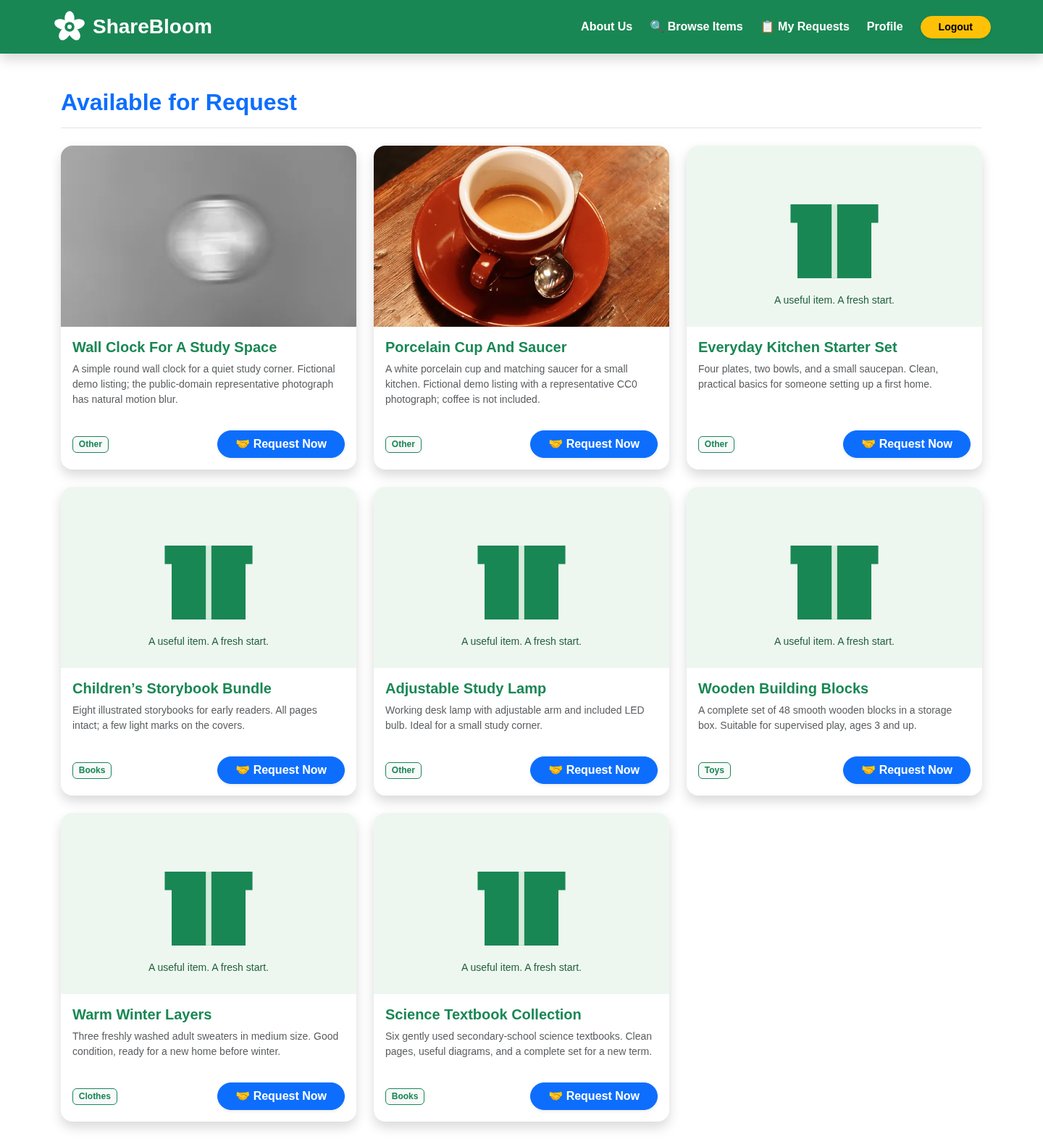
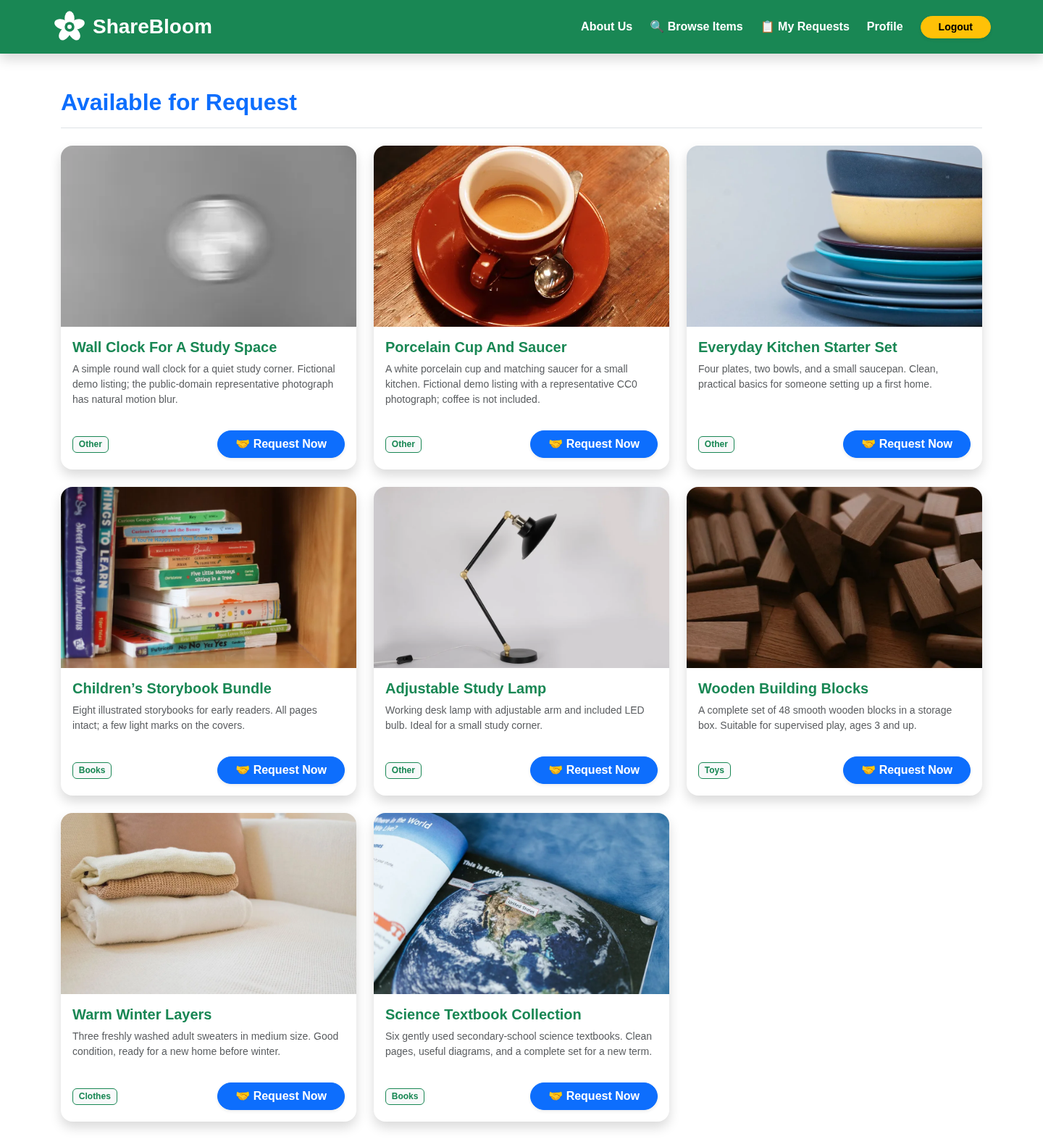
Complete licensed demo photography and document portfolio deployment plan

Changed region(s): [[0.0312, 0.4052, 0.9688, 0.5922], [0.0312, 0.6858, 0.6562, 0.8728], [0.6562, 0.1247, 0.9688, 0.3117]]

diff --git a/backend/test/demo-photos.test.js b/backend/test/demo-photos.test.js
@@ -1,0 +1,37 @@
+const { test } = require('node:test');
+const assert = require('node:assert/strict');
+const mongoose = require('mongoose');
+const fs = require('node:fs/promises');
+const os = require('node:os');
+const path = require('node:path');
+const crypto = require('node:crypto');
+const { attachDemoPhotos } = require('../lib/demo-photos');
+const manifest = require('../fixtures/photos/manifest.json');
+test('photo attachment preserves existing images, records and requests and is idempotent', async () => {
+  const connection = await mongoose.createConnection('mongodb://127.0.0.1:27017/photo_test_' + crypto.randomUUID().replaceAll('-', '')).asPromise();
+  const dir = await fs.mkdtemp(path.join(os.tmpdir(), 'photo-test-'));
+  try {
+    const Donation = connection.model('Donation', new mongoose.Schema({ itemName: String, category: String, donorEmail: String, image: String, description: String }));
+    const rows = await Donation.insertMany(manifest.photos.map((p, i) => ({ itemName: p.itemName, category: p.category, donorEmail: 'mira.donor@example.test', image: i === 0 ? 'genuine.webp' : null, description: 'Preserve this text' })));
+    await fs.writeFile(path.join(dir, 'genuine.webp'), 'existing uploaded bytes');
+    await connection.collection('requests').insertOne({ donationId: rows[0]._id, status: 'Approved' });
+    const before = JSON.parse(JSON.stringify(await Donation.find().sort({ _id: 1 }).lean()));
+    const requests = JSON.parse(JSON.stringify(await connection.collection('requests').find().toArray()));
+    assert.equal((await attachDemoPhotos(Donation, dir)).attached, 5);
+    assert.equal((await attachDemoPhotos(Donation, dir)).attached, 0);
+    assert.equal(await fs.readFile(path.join(dir, 'genuine.webp'), 'utf8'), 'existing uploaded bytes');
+    const after = JSON.parse(JSON.stringify(await Donation.find().sort({ _id: 1 }).lean()));
+    assert.equal(after[0].image, 'genuine.webp');
+    for (let i = 0; i < before.length; i++) { delete before[i].image; delete after[i].image; }
+    assert.deepEqual(after, before);
+    assert.deepEqual(JSON.parse(JSON.stringify(await connection.collection('requests').find().toArray())), requests);
+    await Donation.create({ ...manifest.photos[0], donorEmail: 'mira.donor@example.test' });
+    const filesBefore = await fs.readdir(dir);
+    await assert.rejects(attachDemoPhotos(Donation, dir), /ambiguous/);
+    assert.deepEqual(await fs.readdir(dir), filesBefore);
+  } finally {
+    await connection.dropDatabase();
+    await connection.close();
+    await fs.rm(dir, { recursive: true, force: true });
+  }
+});

diff --git a/backend/lib/demo-photos.js b/backend/lib/demo-photos.js
@@ -1,0 +1,34 @@
+const fs = require('fs/promises');
+const path = require('path');
+const crypto = require('crypto');
+const manifest = require('../fixtures/photos/manifest.json');
+const hash = buffer => crypto.createHash('sha256').update(buffer).digest('hex');
+async function attachDemoPhotos(Donation, uploadDir) {
+  const planned = [];
+  // Preflight every target and asset before the first write. Never create or replace a donation.
+  for (const photo of manifest.photos) {
+    const matches = await Donation.find({ donorEmail: 'mira.donor@example.test', itemName: photo.itemName }).lean();
+    if (matches.length !== 1 || matches[0].category !== photo.category) throw new Error('Missing or ambiguous fictional fixture: ' + photo.itemName);
+    if (path.basename(photo.file) !== photo.file) throw new Error('Invalid fixture filename');
+    const bytes = await fs.readFile(path.join(__dirname, '../fixtures/photos', photo.file));
+    if (hash(bytes) !== photo.sha256) throw new Error('Fixture checksum mismatch');
+    planned.push({ photo, donation: matches[0], bytes });
+  }
+  await fs.mkdir(uploadDir, { recursive: true });
+  const result = { attached: 0, preserved: 0, ids: [] };
+  for (const { photo, donation, bytes } of planned) {
+    result.ids.push(String(donation._id));
+    if (donation.image) { result.preserved++; continue; }
+    const name = `demo-pexels-${photo.photoId}-${photo.sha256.slice(0, 12)}.webp`;
+    const target = path.join(uploadDir, name);
+    try { await fs.writeFile(target, bytes, { flag: 'wx' }); }
+    catch (error) {
+      if (error.code !== 'EEXIST' || hash(await fs.readFile(target)) !== photo.sha256) throw error;
+    }
+    const updated = await Donation.updateOne({ _id: donation._id, donorEmail: donation.donorEmail, image: { $in: [null, ''] } }, { $set: { image: name } });
+    if (updated.modifiedCount === 1) result.attached++;
+    else result.preserved++; // A concurrent genuine upload always wins.
+  }
+  return result;
+}
+module.exports = { attachDemoPhotos };

diff --git a/backend/scripts/attach-demo-photos.js b/backend/scripts/attach-demo-photos.js
@@ -1,0 +1,13 @@
+require('dotenv').config({ quiet: true });
+const mongoose = require('mongoose');
+const path = require('path');
+const Donation = require('../models/Donation');
+const { attachDemoPhotos } = require('../lib/demo-photos');
+async function main() {
+  const uri = process.env.MONGO_URI || 'mongodb://127.0.0.1:27017/community_donation';
+  if (!uri.startsWith('mongodb://127.0.0.1:') && process.env.ALLOW_DEMO_SEED !== 'true') throw new Error('Non-local fixture updates require explicit approval and ALLOW_DEMO_SEED=true');
+  await mongoose.connect(uri);
+  const result = await attachDemoPhotos(Donation, path.resolve(process.env.UPLOAD_DIR || path.join(__dirname, '../uploads')));
+  console.log(JSON.stringify(result));
+}
+if (require.main === module) main().catch(error => { console.error(error.message); process.exitCode = 1; }).finally(() => mongoose.disconnect());

diff --git a/docs/DEPLOYMENT-PLAN.md b/docs/DEPLOYMENT-PLAN.md
@@ -1,0 +1,101 @@
+# Portfolio deployment plan — approval required
+
+Prepared 21 October 2026. This is an executable launch checklist, **not a record of deployment**. No resources, billing, public listeners, domains or external backup accounts were created. Existing application functionality and UI are unchanged.
+
+## Recommended arrangement
+
+Use one **Hetzner Cloud shared x86 VPS in an EU region**, with at least 2 vCPU, 4 GB RAM and 40 GB persistent SSD. Confirm x86 AVX support for MongoDB 8 before purchase. Choose the current equivalent plan rather than relying on an old SKU. Run the existing Docker Compose stack: React/Nginx, one Express process, private authenticated MongoDB and persistent upload/database volumes. Put Caddy in front for automatic Let's Encrypt HTTPS. Use one domain and one origin for UI, API and uploads; this avoids extra CORS/cookie configuration and separate hosting bills.
+
+This is suitable for a low-traffic portfolio demo, with one host as a failure domain. It is not high availability. Avoid free ephemeral hosting for local uploads and MongoDB. Do not split this small application across frontend hosting, an API service and a database service unless traffic or operational requirements justify the extra configuration.
+
+### Budget, not a verified provider quotation
+
+Official pricing pages returned network-policy denials in this workspace. The figures below are planning allowances, **not confirmed current prices**. Confirm region, disk, IPv4, tax and backup charges in the provider checkout before requesting purchase approval.
+
+| Component | Expected monthly allowance, excluding tax |
+| --- | --- |
+| Shared x86 4 GB VPS | €5–8 |
+| Public IPv4 | €0.50–1 |
+| Provider automatic backups | About 20% of VM price: €1–1.60 |
+| Encrypted off-site object storage, small demo (roughly 5–20 GB retained) | €0–1 initially; budget €1 |
+| Domain amortized over annual registration | €1–2 (roughly €12–24/year) |
+| Caddy, Docker, HTTPS certificate, DNS | €0 software/certificate cost |
+| **Expected total** | **Approximately €8–14/month; reserve €10–15 plus tax** |
+
+Storage growth, restore egress, region changes and non-EUR billing can increase costs. Set the provider's available billing alerts, a storage alert and an upload-retention policy; alerts are not necessarily a spending cap. No payment method or billing was enabled.
+
+Verify: [Hetzner Cloud](https://www.hetzner.com/cloud/), [backup documentation](https://docs.hetzner.com/cloud/servers/backups-snapshots/overview/), [Backblaze B2 pricing](https://www.backblaze.com/cloud-storage/pricing). B2 is the proposed independent backup destination; another S3-compatible provider is acceptable after confirming storage, request and egress charges.
+
+## Decisions needed before any purchase or public launch
+
+The owner must approve provider, region/data location, exact checkout cost, domain, monthly budget, and whether public signup/uploads are allowed. Recommended first release: limited portfolio sandbox with fictional data, explicit “demo—no real donations or personal information” notice and a documented reset policy. Current public signup/upload endpoints remain enabled in code; restricting them requires a separately reviewed gateway/application configuration before launch. Do not advertise a restricted sandbox until restrictions are tested. Email verification and account recovery are not implemented.
+
+## Exact launch sequence
+
+These commands are a plan to run **after approval**. Substitute the approved domain, release SHA and paths. Commands that require configuration work are expressly called out below; the current Compose template alone is not a public-ready gateway.
+
+1. **Pin release and recheck dependencies.** In this checkout run:
+
+   ```bash
+   git switch main
+   git pull --ff-only origin main
+   git rev-parse HEAD
+   npm ci --prefix backend
+   npm ci --prefix frontend
+   npm test --prefix backend
+   npm test --prefix frontend
+   npm run build --prefix frontend
+   npm audit --prefix backend
+   npm audit --prefix frontend
+   ```
+
+   Backend integration tests require the isolated local MongoDB described in TESTING.md. Record the exact approved SHA; deploy that SHA, not a moving branch. Keep only `main` in the source repository.
+
+2. **Provision the approved VM.** Ubuntu 24.04 LTS x86, SSH key access, provider account MFA, recovery codes stored offline, automatic provider backups enabled only after cost approval. Create a non-root sudo operator; disable password/root SSH login after verifying a second key-based session. Install security updates and unattended security patches; arrange reboot maintenance. Verify CPU AVX support and disk capacity before installing MongoDB containers.
+
+3. **Network perimeter.** At the provider firewall allow TCP 22 only from the operator's approved IP/CIDR and TCP 80/443 publicly; allow necessary outbound DNS/HTTPS/NTP. Do not expose 27017, 5000 or 8080. Use the provider firewall as well as host controls because published Docker ports can bypass ordinary UFW rules. Add DNS A to the VM; add AAAA only if IPv6 routing/firewall is tested. Wait for authoritative/public DNS convergence.
+
+4. **Install Docker Engine and Compose v2 from Docker's official signed apt repository** following [Ubuntu installation instructions](https://docs.docker.com/engine/install/ubuntu/). Keep TLS and package signature verification enabled. Docker access is root-equivalent. Clone the repository into `/opt/sharebloom`, checkout the approved SHA, and keep runtime secrets outside the checkout. No third-party installation shell script is required.
+
+5. **Create private configuration.** As root, `install -d -m 700 /etc/sharebloom`; copy `deploy/demo.env.example` to `/etc/sharebloom/app.env`, mode 600. Generate independent random hexadecimal Mongo root/application passwords (`openssl rand -hex 32`) and JWT secret (`openssl rand -hex 48`) into the private file using a secure editor or password manager. Set `PUBLIC_ORIGIN=https://APPROVED_DOMAIN`. Do not print expanded Compose configuration, commit credentials, expose secrets through React build variables, or reuse local demo passwords. Changing Mongo env values does not rotate users in an existing volume.
+
+6. **Prepare and review a production gateway overlay before starting public services.** Keep `compose.demo.yaml` intact and write `compose.production.yaml` with Caddy, persistent Caddy `/data` and `/config` volumes, the chosen domain/ACME contact, and public ports 80/443 on Caddy only. Retain web's existing loopback-only 8080 listener, or remove it with a Compose-version-supported override. Caddy reverse-proxies to `web:80`; Nginx continues routing `/api` and `/uploads` to `api:5000`. Caddy automatically redirects HTTP to HTTPS. Pin an official Caddy image digest and validate its configuration without requesting a certificate first. Start with HSTS `max-age=2592000`; omit preload/includeSubDomains until every affected domain is HTTPS-ready.
+
+   **Required gateway/proxy implementation gate:** current Express does not trust proxies. Configure exact trusted Nginx addresses in Express and exact trusted Caddy addresses in Nginx, using a dedicated, collision-checked fixed Compose subnet. Never enable unrestricted `trust proxy=true`. Caddy must overwrite incoming forwarded-client headers; Nginx must pass only the sanitized client address. Add gateway limits for every API route, stricter auth/upload limits, 6 MiB body limit, upstream timeouts and bounded connections. Test that forged `X-Forwarded-For` cannot evade limits, while two real clients receive independent limits. Current in-memory limits are suitable only for this single API process; scaling requires shared storage. This production overlay and trusted-proxy implementation are **not yet committed or tested**; do not open public access until complete.
+
+   Apply container log rotation (for example 10 MiB × 3), `no-new-privileges` where compatible, and memory ceilings. Suggested Mongo wiredTiger cache 0.5 GB and container ceiling 2 GB, API 512 MB, Nginx 128 MB, Caddy 256 MB; leave host/build headroom. Test these limits under expected load. Leave database and uploads on named persistent volumes. Never run `down --volumes` on the live project.
+
+7. **Build and inspect privately.** Once the production overlay is implemented:
+
+   ```bash
+   cd /opt/sharebloom
+   docker compose --project-name sharebloom --env-file /etc/sharebloom/app.env \
+     -f compose.demo.yaml -f compose.production.yaml config --quiet
+   docker compose --project-name sharebloom --env-file /etc/sharebloom/app.env \
+     -f compose.demo.yaml -f compose.production.yaml build
+   ```
+
+   Run a loopback rehearsal first, including authenticated Mongo connectivity, HTTPS cookies/CSRF and persistence. Never disable certificate verification. Provision the first Admin with the existing private admin script (see TESTING.md), independent credentials, no public self-registration role escalation. Seed only approved fictional data; copy licensed fixtures via the idempotent photo attachment script. Do not copy the entire development database or genuine uploads without a separate data review.
+
+8. **Backups and mandatory restore drill.** Create an independent B2 bucket with encryption and a bucket/prefix-scoped application key; store the Restic repository password in an offline password manager and a root-readable host file. Use Restic authenticated encryption; provider disk encryption alone does not protect exported database dumps. Schedule daily backups at 03:00 UTC, retention 7 daily/4 weekly/3 monthly, weekly repository integrity checks and backup-age/error notifications. Set a non-overlap lock and `umask 077`.
+
+   The backup job must briefly stop only the API to prevent writes across Mongo/upload capture, with a trap that restarts it on every exit; make a gzip `mongodump` of `community_donation`, archive the upload volume read-only, record checksums/release SHA and encrypt configuration needed for recovery. Pass Mongo credentials through a temporary mode-600 `mongodump --config` file inside the container, not password command arguments or logs. Resume the API immediately after capture, then transfer the consistent snapshot to Restic. Delete plaintext staging securely according to the host storage policy. Backup Caddy state or document ACME reissue. Do not put unencrypted archives in the repository or web root.
+
+   **Restore gate:** restore to a new, isolated Compose project with fresh volumes and loopback-only ports; never use `mongorestore --drop` against live data. Restore DB and upload archive together, compare counts/checksums and image retrieval, verify authentication/authorization and three request states, and record elapsed recovery time. Provider snapshots supplement, rather than replace, the independent encrypted backup. Target RPO 24 hours and RTO 2–4 hours are goals until measured. Backup automation and this drill remain to be implemented/tested; no remote backup account has been created.
+
+9. **Approved public start.** Only after steps 1–8 and explicit public-launch approval:
+
+   ```bash
+   docker compose --project-name sharebloom --env-file /etc/sharebloom/app.env \
+     -f compose.demo.yaml -f compose.production.yaml up -d --wait
+   docker compose --project-name sharebloom --env-file /etc/sharebloom/app.env \
+     -f compose.demo.yaml -f compose.production.yaml ps
+   ```
+
+   Caddy obtains its certificate after DNS/ports are ready. Validate HTTP redirect, certificate chain/renewal configuration, `/api/health`, exact CORS origin, Secure/HttpOnly/SameSite cookies, CSRF rejection, unauthorized/other-owner denial, rate limits, upload type/size rejection, CSP and persistence after restart. Run the real browser suite against the approved HTTPS hostname using private test accounts; inspect desktop/mobile and all screenshots. Verify externally that database/API ports are closed. Do not log tokens or request bodies containing credentials. Remove test artefacts, keep fictional portfolio data, then announce the URL.
+
+10. **Operations and rollback.** Monitor HTTPS uptime, `/api/health`, disk (>80%), memory, certificate expiry, container restarts and backup age (>26 hours). Keep bounded security/audit logs with access restricted to the operator; define deletion/retention and a short privacy notice. Review uploads periodically and add quotas/malware scanning before unrestricted public submissions. Patch and re-audit monthly. Record deployed image digests and SHA; rollback to known-good application images after backup, without deleting volumes or blindly downgrading Mongo. Restore into an isolated project first if data recovery is needed. Run a restore drill monthly and after material storage changes.
+
+## Present readiness
+
+Application tests and local screenshots are separate from final-host acceptance. Existing authentication, authorization, upload decoding, same-origin CORS/CSP and Compose persistence are prepared. Public proxy configuration, gateway abuse controls, encrypted backup automation/restore, final domain/TLS, retention/privacy choices and final-host browser validation remain launch gates. No claim of public production readiness or successful backup restoration is made.

diff --git a/docs/TESTING.md b/docs/TESTING.md
@@ -8,7 +8,7 @@ npm test --prefix frontend
 npm run build --prefix frontend
 ```
 
-The backend runner uses a unique local `community_test_*` database and temporary upload directory, then removes only those resources. Its 17 tests exercise real MongoDB, authentication, expired/invalid JWTs, cookie restoration/revocation/CSRF, RBAC, ownership, suspension, admin provisioning/permissions, reversible moderation/audits, upload decoding and limits, injection rejection, throttling and production configuration. No tests are skipped.
+The backend runner uses a unique local `community_test_*` database and temporary upload directory, then removes only those resources. Its 18 tests exercise real MongoDB, authentication, expired/invalid JWTs, cookie restoration/revocation/CSRF, RBAC, ownership, suspension, admin provisioning/permissions, reversible moderation/audits, upload decoding and limits, injection rejection, throttling and production configuration. No tests are skipped.
 
 The ten frontend tests cover registration/login navigation, donor routes/forms, status changes, request histories, forged client roles, expired sessions, admin statistics/search/suspension, image previews and invalid image choices. The original test assertions now run with Vitest/jsdom. Vite/Vitest replaced the retired React Scripts/Jest dependency tree after compatible patches alone left 109 audit findings. React screens/API contracts remain unchanged; current React Router exports resolve natively. No assertions were removed or disabled.
 
@@ -19,9 +19,10 @@ Set private `MONGO_URI` and `DEMO_PASSWORD` (12–72 bytes) outside the checkout
 ```bash
 node --env-file=/absolute/private/backend.env --env-file=/absolute/private/demo.env backend/scripts/seed-demo.js
 node --env-file=/absolute/private/backend.env backend/scripts/seed-photos.js
+node --env-file=/absolute/private/backend.env backend/scripts/attach-demo-photos.js
 ```
 
-Three original fixture accounts are Mira Willow (`mira.donor@example.test`), Rowan Vale (`rowan.requester@example.test`) and Ellis Fern (`ellis.requester@example.test`). The original six listings and Pending/Approved/Rejected requests are preserved. Two additional fictional listings use correctly matched, verified CC0/public-domain photographs: a cup/saucer and a wall clock. Existing genuine uploads and populated image fields are never replaced. See [attribution](../backend/fixtures/photos/ATTRIBUTION.md) for the source-access limitation affecting the other categories.
+Three original fixture accounts are Mira Willow (`mira.donor@example.test`), Rowan Vale (`rowan.requester@example.test`) and Ellis Fern (`ellis.requester@example.test`). The original six listings and Pending/Approved/Rejected requests are preserved. Two additional fictional listings use correctly matched, verified CC0/public-domain photographs: a cup/saucer and a wall clock. Existing genuine uploads and populated image fields are never replaced. The six original items now have visually reviewed Pexels illustrations; see [attribution](../backend/fixtures/photos/ATTRIBUTION.md) for provenance and matching limitations.
 
 Both seeds require explicit `ALLOW_DEMO_SEED=true` for non-local databases; do not use that override on real data. Reruns preserve existing records/passwords. No real email or phone details are used, and nothing sends mail.
 
@@ -50,3 +51,7 @@ Sixteen genuine images and a SHA-256 capture manifest are saved under `docs/scre
 ## Production transport rehearsal
 
 See [deployment preparation](DEPLOYMENT.md) for the verified local TLS rehearsal. `scripts/production-smoke.cjs` tests the authenticated Compose configuration with a trusted local test certificate and leaves the key outside the checkout. The final public provider/domain, browser TLS configuration, abuse controls and backup recovery remain untested until approved hosting exists.
+
+## Portfolio photo verification — 21 October 2026
+
+18 backend tests passed against real MongoDB, including an isolated photo attachment test that preserves existing image bytes, IDs, donation metadata and request records; reruns are idempotent and ambiguous targets fail before writes. The live fixture before/after comparison found exactly six image-field changes and no other donation, request or prior upload-byte changes. Ten frontend tests, the production build and nine real Chromium scenarios passed. Sixteen screenshots were recaptured and their hashes refreshed. Both dependency audits reported zero known vulnerabilities. The build emitted non-failing React Router `use client` bundling warnings. No dependencies or UI flows changed in this follow-up.

diff --git a/backend/fixtures/photos/ATTRIBUTION.md b/backend/fixtures/photos/ATTRIBUTION.md
@@ -9,6 +9,21 @@ These are real photographs, not generated images. Re-encoded as metadata-free We
 
 Original files: https://github.com/scikit-image/scikit-image/blob/v0.24.0/skimage/data/coffee.png and https://github.com/scikit-image/scikit-image/blob/v0.24.0/skimage/data/clock_motion.png . CC0 terms: https://creativecommons.org/publicdomain/zero/1.0/ .
 
-The cup image is used only for a new fictional cup-and-saucer listing; the clock image only for a new fictional wall-clock listing. They are not falsely attached to books, clothing or toys. Existing genuine images are never replaced. Existing fictional listings still need suitable licensed category photographs: Pexels/Wikimedia download hosts are currently blocked by runtime policy. The network additions are saved in the environment draft. Verify each remaining source's author/licence before using it; do not assume that every file in an image-sample repository shares a licence.
+The cup image is used only for a new fictional cup-and-saucer listing; the clock image only for a new fictional wall-clock listing. They are not falsely attached to books, clothing or toys. Existing genuine images are never replaced.
 
[1 lines of base64/hex data omitted]
+
+## Six original fictional listings
+
+Downloaded and visually reviewed on 21 October 2026. All six use the [Pexels licence](https://www.pexels.com/license/), permitting free use and modification. Attribution is provided voluntarily. No endorsement is implied. These illustrate fictional listings; they do not document actual donated inventory or establish condition, size or exact quantities.
+
+| Listing | Photographer and source | Matching review |
+| --- | --- | --- |
+| Science textbook collection | [RDNE Stock project](https://www.pexels.com/photo/open-book-with-a-photo-of-earth-8363782/) | An open educational book with a labelled Earth illustration. Represents the science content of the fictional collection, not a photograph of all six books or proof of grade/condition. |
+| Warm winter layers | [Ralitsa Racheva](https://www.pexels.com/photo/clothes-on-couch-7691347/) | Three folded knitted sweaters in neutral colours on a sofa. The type and visible count match; size, washing and condition remain fictional listing details. |
+| Wooden building blocks | [Julia Bataeva](https://www.pexels.com/photo/scattered-wooden-building-blocks-on-floor-31061855/) | Natural wooden geometric building blocks on a wooden floor. Represents the block set; the storage box and exact 48-piece inventory are not pictured. |
+| Adjustable study lamp | [Prem Singh Tanwar](https://www.pexels.com/photo/black-desk-lamp-on-white-wall-8263858/) | A single black desk lamp with a visibly jointed adjustable arm. Bulb technology and working condition cannot be established from a photograph. |
+| Children’s storybook bundle | [Kate L](https://www.pexels.com/photo/stack-of-children-s-books-on-a-wooden-bookshelf-31024471/) | A shelf of illustrated early-reader storybooks, including Curious George, Bambi and Spot. A representative selection; not evidence of the exact eight-book bundle. |
+| Everyday kitchen starter set | [RDNE Stock project](https://www.pexels.com/photo/stack-of-plates-and-ceramic-bowls-8904068/) | Stacked ceramic plates and two bowls. Represents the tableware portion of the set; the saucepan is not pictured and no exact plate inventory is claimed. |
+
+[Machine-readable provenance](manifest.json) records source URLs, licence, retrieval date, original and derivative SHA-256 hashes, dimensions and transformations. Images were resized and metadata stripped; kitchen tableware was cropped to remove empty background. No subjects were generated or added. Run `backend/scripts/attach-demo-photos.js` after the original seed: it fills only empty image fields for the six identified fictional items, validates asset hashes, and preserves every existing image. It does not create donations or alter requests.

diff --git a/docs/HANDOVER.md b/docs/HANDOVER.md
@@ -19,7 +19,7 @@ The final documentation/gallery commit follows these commits; no history was rew
 
 ## Verified results
 
-- 17 backend tests passed against real MongoDB; 10 frontend tests passed; no tests were skipped or remain failing.
+- 18 backend tests passed against real MongoDB; 10 frontend tests passed; no tests were skipped or remain failing.
 - Nine real Chromium scenarios passed, including desktop donor/requester/admin flows and mobile admin/requester navigation.
 - Production frontend build passed. Docker API/frontend images built with TLS verification.
 - Authenticated Compose started locally and passed a verified local HTTPS cookie/CSRF/session/donation/logout rehearsal. The temporary rehearsal was stopped; its volumes were retained.
@@ -29,10 +29,12 @@ The final documentation/gallery commit follows these commits; no history was rew
 
 ## Remaining blockers and unexecuted checks
 
-**Stage 4 is partially complete.** Two matching CC0/public-domain photo listings are available with author/source attribution and verified upstream checksums. The original six fictional listings still need suitable licensed photographs. Pexels and Wikimedia requests were denied by runtime policy; their domains are saved in the environment draft. Save the network additions in environment settings to resume licence verification and sourcing. No unrelated or unknown-licence photos were attached to existing records. No genuine uploads were replaced.
+**Photo sourcing is complete.** Six licensed Pexels illustrations now fill the original fictional listings' empty image fields. Full provenance and visual matching limitations are recorded in the photo manifest/attribution. A before/after database comparison verified exactly six image-field changes, unchanged donation IDs and other fields, unchanged requests, and identical bytes for every pre-existing upload. A second attachment run preserved all six existing images and made no updates. No genuine uploads were replaced.
 
 The final frontend and backend audits both report zero known vulnerabilities. Compatible patches alone left 109 legacy frontend entries; a focused Vite/Vitest migration removed the retired React Scripts/Jest tree without changing UI flows or removing assertions. All ten frontend tests, the build and nine browser scenarios passed afterward. Re-audit before launch; this is not a security guarantee.
 
 Final public-host browser/TLS checks, backup restoration, multi-instance/shared throttling, proxy configuration and production monitoring have not been tested because no public hosting has been approved. The current throttles use per-process memory; email verification, password recovery, MFA and tamper-proof external audit storage are not implemented. Passing tests do not guarantee security.
 
 See [testing](TESTING.md), [security design](SECURITY.md), [validation](VALIDATION.md), [deployment preparation](DEPLOYMENT.md) and [photo attribution](../backend/fixtures/photos/ATTRIBUTION.md). Public deployment, paid resources and disclosure of real credentials still require explicit approval.
+
+See [the deployment plan](DEPLOYMENT-PLAN.md) for the recommended single-server architecture, estimated costs, exact launch sequence and outstanding acceptance gates. No billing or public deployment was enabled.

diff --git a/README.md b/README.md
@@ -39,7 +39,7 @@ These screenshots were captured from the actual running React application, Expre
 | --- | --- | --- |
 | [![Admin request oversight](docs/screenshots/admin-requests.png)](docs/screenshots/admin-requests.png) | [![Administrative audit events](docs/screenshots/admin-audit.png)](docs/screenshots/admin-audit.png) | [![Mobile admin overview](docs/screenshots/admin-mobile.png)](docs/screenshots/admin-mobile.png) · [Requester on mobile](docs/screenshots/requester-mobile.png) |
 
-[Capture manifest and image hashes](docs/screenshots/capture-manifest.json) · [Photograph licences and remaining source-access limitation](backend/fixtures/photos/ATTRIBUTION.md)
+[Capture manifest and image hashes](docs/screenshots/capture-manifest.json) · [Photograph licences and provenance](backend/fixtures/photos/ATTRIBUTION.md)
 
 ## Technology
 
@@ -105,12 +105,14 @@ npm test --prefix frontend
 npm run build --prefix frontend
 ```
 
-The latest run passed **17 backend tests, 10 frontend tests and nine real browser scenarios**, and the production build. Sixteen genuine screenshots are recorded in the capture manifest. See the [validation record](docs/VALIDATION.md) for evidence and limitations. Passing tests do not guarantee security.
+The latest run passed **18 backend tests, 10 frontend tests and nine real browser scenarios**, and the production build. Sixteen genuine screenshots are recorded in the capture manifest. See the [validation record](docs/VALIDATION.md) for evidence and limitations. Passing tests do not guarantee security.
 
 ## Hosting status and remaining work
 
 No public demo has been deployed and no public URL is advertised. Dockerfiles, a same-origin Nginx gateway, authenticated private MongoDB and persistent upload volumes are prepared and tested locally. Public deployment and paid resources require owner approval.
 
-Two photo listings use verified CC0/public-domain sources. The six older fictional listings are preserved and still need suitable licensed category photographs because the relevant photo hosts remain blocked in the current runtime. The necessary network additions are saved in the environment draft. Existing genuine uploads are never replaced by the photo seed.
+All eight fictional listings now have relevant licensed photographs: six Pexels photographs and two CC0/public-domain sources. Photos are representative illustrations; see the attribution record for visible contents and quantity/condition limitations. Donation IDs, descriptions, requests and genuine uploads were preserved. The gallery was recaptured from the running application.
 
 The recorded frontend and backend dependency audits report zero known vulnerabilities. Retired React Scripts/Jest tooling was replaced with Vite/Vitest while preserving the React UI and test assertions. A clean audit is not a security guarantee; provider configuration and abuse controls still need launch review. See [security notes](docs/SECURITY.md) and [deployment preparation](docs/DEPLOYMENT.md).
+
+For the proposed single-server hosting budget and approval-gated launch sequence, see [the deployment plan](docs/DEPLOYMENT-PLAN.md).

diff --git a/docs/VALIDATION.md b/docs/VALIDATION.md
@@ -8,7 +8,7 @@ All application tests below used real local MongoDB; browser scenarios used the 
 | Stage 1 security | 9 backend tests passed before advancing |
 | Stage 2 authentication | 12 backend / 4 frontend tests passed before advancing |
 | Stage 3 administration | 15 backend / 6 frontend tests and production build passed |
-| Stage 4 branding/images | Frontend tests and build passed; two verified licensed photo listings added; remaining photo sourcing externally blocked |
+| Stage 4 branding/images | Frontend tests and build passed; two verified licensed photo listings added; six additional licensed, visually reviewed illustrations attached while preserving records |
 | Final backend suite | 17 passed; 0 failed, skipped or cancelled |
 | Final frontend suite | 10 passed across 3 suites; 0 failed or skipped |
 | Production frontend build | Passed under Vite; React Router use-client directive notices remain (this is a client-only SPA) |
@@ -22,7 +22,7 @@ All application tests below used real local MongoDB; browser scenarios used the 
 
 The end-to-end run caught and corrected credentialed CORS configuration. It also exposed test-helper timing/selector assumptions, which were corrected before the final passing run. A failed attempt was not counted as a pass.
 
-Photograph completion remains partial: the original six fictional listings were preserved, two verified licensed photographs were added for matching new fictional records, and other categories still require source access. Pexels/Wikimedia domains are saved in the environment draft, but the runtime requests returned proxy denials. No unknown-licence or unrelated photographs were substituted. Genuine uploads were retained.
+Photograph sourcing is complete: six Pexels illustrations fill previously empty fictional listing image fields. Source/derivative checksums and visual matching limitations are documented. Before/after comparison verified all other donation fields, requests and pre-existing upload bytes were unchanged; the second attachment run made no changes.
 
 Compatible patches initially left 109 frontend audit entries. A subsequent focused migration to Vite/Vitest removed the retired build/test tree while preserving React screens, API behavior and all ten frontend test assertions. Tests, production build and nine real browser scenarios were rerun and passed with the new tooling. The final audit is clean, but that does not establish complete application security.
 

diff --git a/docs/DEPLOYMENT.md b/docs/DEPLOYMENT.md
@@ -53,3 +53,7 @@ Local checks are not evidence of a public deployment or a new cloud-task restora
 The updated images were built and the authenticated Compose stack started locally. `scripts/production-smoke.cjs` exercised cookie sessions through a loopback HTTPS gateway with certificate verification enabled: database health, login, Secure/HttpOnly flags, session restoration, CSRF denial, donation creation/deletion and logout revocation passed. This is a Node HTTPS transport check, not a public-host browser validation. The development UI has separate real Chromium desktop/mobile coverage.
 
 The helper expects a private local certificate/key in `/workspace/.community-donation/tls` (or `LOCAL_TLS_DIR`) and a loopback Compose stack on 8080 with `PUBLIC_ORIGIN=https://localhost:8443`. Never commit the key or reuse this test certificate for public hosting. The client explicitly trusts the test certificate; it never disables TLS verification.
+
+## Recommended hosting and exact launch plan
+
+See [DEPLOYMENT-PLAN.md](DEPLOYMENT-PLAN.md) for a single 4 GB x86 VPS recommendation, an estimated €10–15/month budget plus tax, and the approval-gated launch sequence. Pricing is a planning estimate because provider pricing pages were blocked during review. The production gateway overlay, exact proxy trust configuration and encrypted backup/restore automation remain explicit implementation gates; the existing local Compose template must not be exposed unchanged.
